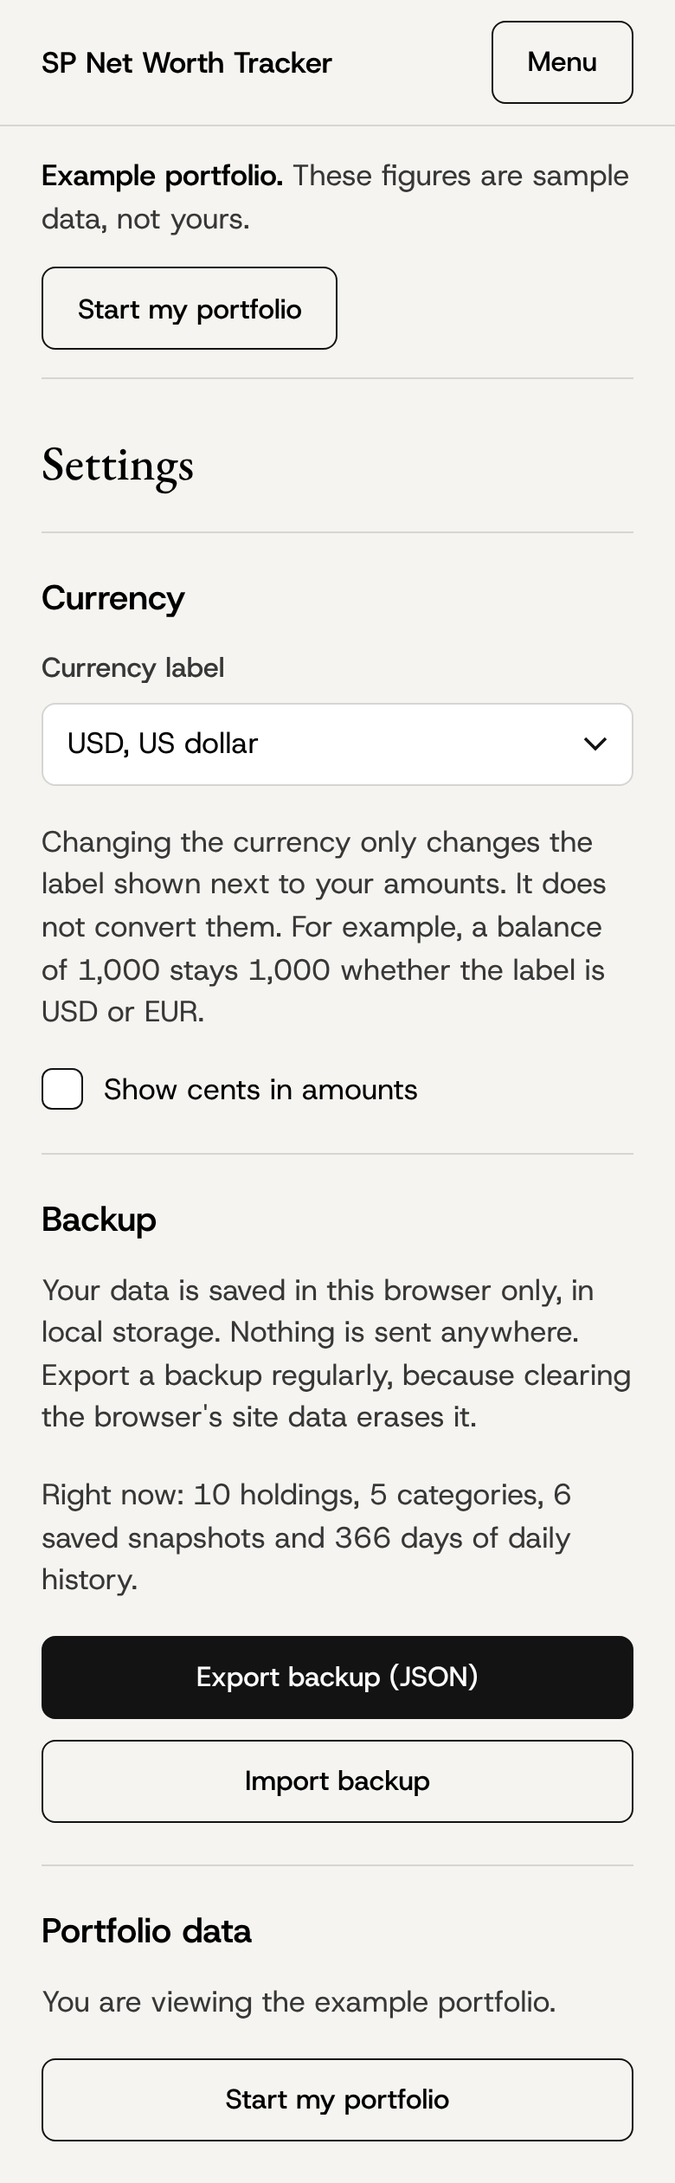
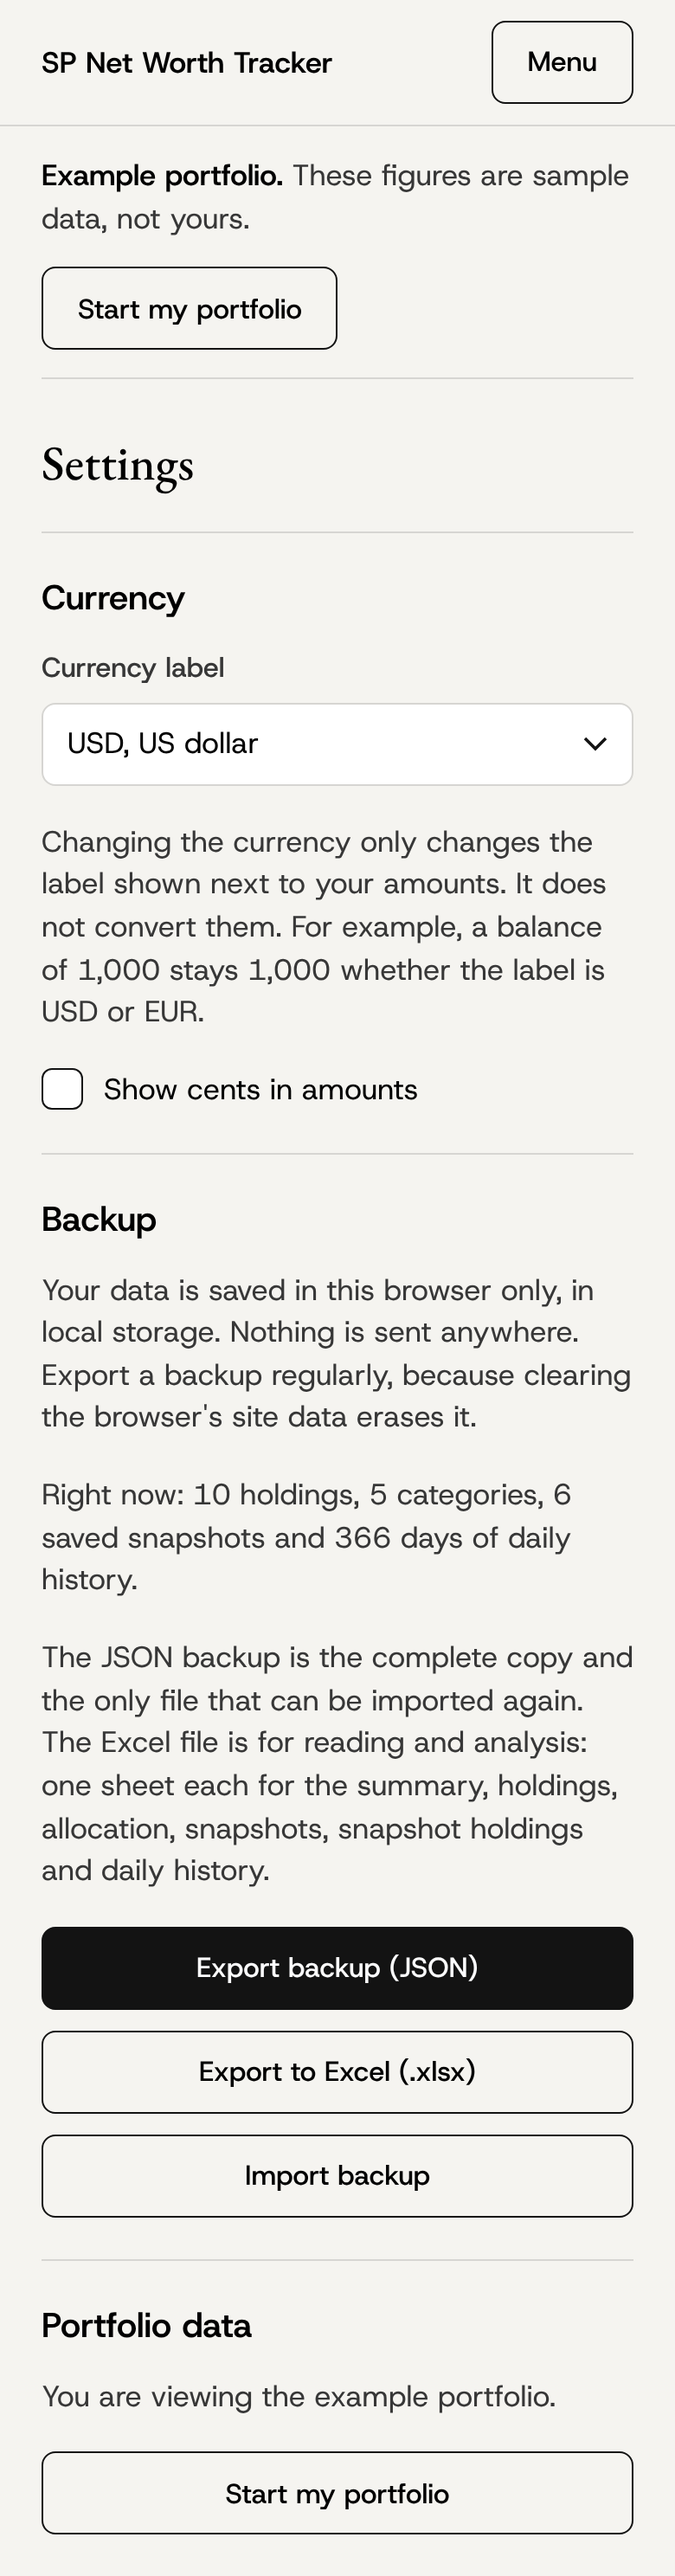
Add Excel export
Settings can now download a readable .xlsx workbook with summary,
holdings, allocation, snapshots, snapshot holdings and daily history.
The JSON backup stays the only importable format.

Claude-Session: https://claude.ai/code/session_01MGnHEpiTRV9QRoaRJHrsMb

diff --git a/src/lib/excel.ts b/src/lib/excel.ts
@@ -1,0 +1,121 @@
+import type { AppData } from '../types';
+import { allocation, share, totals } from './calc';
+import { localDate, parseLocalDate } from './format';
+
+type Cell = { value: string | number | Date; type: typeof String | typeof Number | typeof Date; format?: string; fontWeight?: 'bold'; align?: 'right' } | null;
+
+export interface Sheet {
+  sheet: string;
+  data: Cell[][];
+  columns: { width: number }[];
+  stickyRowsCount: number;
+}
+
+const MONEY = '#,##0.00';
+const PCT = '0.0%';
+const text = (value: string): Cell => ({ value, type: String });
+const money = (value: number | null): Cell => (value === null ? null : { value, type: Number, format: MONEY });
+const pct = (value: number | null): Cell => (value === null ? null : { value: value / 100, type: Number, format: PCT });
+// Excel has no time zones and the writer stores dates as UTC, so shift each date
+// to keep the local clock time the app shows on screen.
+const asShown = (d: Date) => new Date(Date.UTC(d.getFullYear(), d.getMonth(), d.getDate(), d.getHours(), d.getMinutes()));
+const day = (date: string): Cell => {
+  const d = parseLocalDate(date);
+  return { value: new Date(Date.UTC(d.getFullYear(), d.getMonth(), d.getDate())), type: Date, format: 'yyyy-mm-dd' };
+};
+const time = (iso: string): Cell => ({ value: asShown(new Date(iso)), type: Date, format: 'yyyy-mm-dd hh:mm' });
+
+function sheet(name: string, headers: [string, number, ('right' | undefined)?][], rows: Cell[][]): Sheet {
+  return {
+    sheet: name,
+    data: [headers.map(([value, , align]) => ({ value, type: String, fontWeight: 'bold', align })), ...rows],
+    columns: headers.map(([, width]) => ({ width })),
+    stickyRowsCount: 1,
+  };
+}
+
+/**
+ * A readable workbook of everything in the app. For viewing and analysis only:
+ * the JSON backup remains the format that can be imported again.
+ */
+export function buildWorkbook(data: AppData, now: Date = new Date()): Sheet[] {
+  const t = totals(data.holdings);
+  const catName = new Map(data.categories.map((c) => [c.id, c.name]));
+  const kind = (k: 'asset' | 'debt') => (k === 'asset' ? 'Asset' : 'Debt');
+  const sorted = [...data.holdings].sort((a, b) => (a.kind === b.kind ? b.value - a.value : a.kind === 'asset' ? -1 : 1));
+  const R = 'right' as const;
+
+  return [
+    sheet(
+      'Summary',
+      [['Item', 28], ['Value', 20, R]],
+      [
+        [text('Exported'), time(now.toISOString())],
+        [text('Currency'), { value: data.currency, type: String, align: 'right' }],
+        [text('Net worth'), money(t.netWorth)],
+        [text('Total assets'), money(t.totalAssets)],
+        [text('Total debts'), money(t.totalDebts)],
+        [text('Holdings'), { value: data.holdings.length, type: Number }],
+        [text('Saved snapshots'), { value: data.snapshots.length, type: Number }],
+        [text('Days of daily history'), { value: data.daily.length, type: Number }],
+      ],
+    ),
+    sheet(
+      'Holdings',
+      [['Name', 30], ['Institution or account', 26], ['Type', 10], ['Category', 20], ['Value', 18, R], ['% of assets', 14, R]],
+      sorted.map((h) => [
+        text(h.name),
+        text(h.institution),
+        text(kind(h.kind)),
+        text(h.kind === 'debt' ? '' : (h.categoryId && catName.get(h.categoryId)) || 'Uncategorised'),
+        money(h.value),
+        h.kind === 'asset' ? pct(share(h.value, t.totalAssets)) : null,
+      ]),
+    ),
+    sheet(
+      'Allocation',
+      [['Category', 24], ['Value', 18, R], ['Actual %', 12, R], ['Target %', 12, R], ['Difference (points)', 20, R], ['Amount vs target', 20, R]],
+      allocation(data).map((r) => [
+        text(r.name),
+        money(r.value),
+        pct(r.actual),
+        pct(r.target),
+        r.diffPct === null ? null : { value: Math.round(r.diffPct * 100) / 100, type: Number, format: '+0.0;-0.0;0.0' },
+        r.diffAmount === null ? null : { value: r.diffAmount, type: Number, format: '+#,##0.00;-#,##0.00;0.00' },
+      ]),
+    ),
+    sheet(
+      'Snapshots',
+      [['Saved', 20], ['Net worth', 18, R], ['Total assets', 18, R], ['Total debts', 18, R], ['Holdings recorded', 20, R]],
+      data.snapshots.map((s) => [
+        time(s.takenAt),
+        money(s.netWorth),
+        money(s.totalAssets),
+        money(s.totalDebts),
+        s.holdings ? { value: s.holdings.length, type: Number } : { value: 'Totals only', type: String, align: 'right' },
+      ]),
+    ),
+    sheet(
+      'Snapshot holdings',
+      [['Saved', 20], ['Name', 30], ['Institution or account', 26], ['Type', 10], ['Category', 20], ['Value', 18, R], ['% of assets', 14, R]],
+      data.snapshots.flatMap((s) =>
+        (s.holdings ?? []).map((h) => [
+          time(s.takenAt),
+          text(h.name),
+          text(h.institution),
+          text(kind(h.kind)),
+          text(h.kind === 'debt' ? '' : h.category ?? 'Uncategorised'),
+          money(h.value),
+          pct(h.pct),
+        ]),
+      ),
+    ),
+    sheet(
+      'Daily history',
+      [['Date', 14], ['Net worth', 18, R], ['Total assets', 18, R], ['Total debts', 18, R]],
+      data.daily.map((d) => [day(d.date), money(d.netWorth), money(d.totalAssets), money(d.totalDebts)]),
+    ),
+  ];
+}
+
+export const workbookFileName = (now: Date = new Date()) => `sp-net-worth-${localDate(now)}.xlsx`;

diff --git a/src/pages/Settings.tsx b/src/pages/Settings.tsx
@@ -35,6 +35,15 @@ export function SettingsPage() {
     notify({ text: `Backup downloaded: ${describe(data)}.` });
   };
 
+  const downloadExcel = async () => {
+    const [{ default: writeExcelFile }, { buildWorkbook, workbookFileName }] = await Promise.all([
+      import('write-excel-file/browser'),
+      import('../lib/excel'),
+    ]);
+    await writeExcelFile(buildWorkbook(data)).toFile(workbookFileName());
+    notify({ text: 'Excel file downloaded with 6 sheets: Summary, Holdings, Allocation, Snapshots, Snapshot holdings and Daily history.' });
+  };
+
   const read = async (f: File) => {
     setImportError(null);
     const result = parseBackup(await f.text());
@@ -74,8 +83,13 @@ export function SettingsPage() {
             the browser's site data erases it.
           </p>
           <p>Right now: {describe(data)}.</p>
+          <p>
+            The JSON backup is the complete copy and the only file that can be imported again. The Excel file is for reading and analysis: one
+            sheet each for the summary, holdings, allocation, snapshots, snapshot holdings and daily history.
+          </p>
           <div className="button-row">
             <button type="button" className="btn btn-primary" onClick={download}>Export backup (JSON)</button>
+            <button type="button" className="btn btn-secondary" onClick={() => void downloadExcel()}>Export to Excel (.xlsx)</button>
             <button type="button" className="btn btn-secondary" onClick={() => file.current?.click()}>Import backup</button>
             <input
               ref={file}

diff --git a/README.md b/README.md
@@ -61,6 +61,7 @@ Deleting a holding removes it from today's totals. Its earlier daily history and
 
 - Saved in browser local storage under the key `sp-net-worth-tracker`. Clearing site data erases it, so export a backup regularly.
 - **Export** downloads one JSON file with everything.
+- **Export to Excel** downloads a readable `.xlsx` with 6 sheets: Summary, Holdings, Allocation, Snapshots, Snapshot holdings and Daily history. It is for reading and analysis and cannot be imported again.
 - **Import** validates the file first and names the exact problem if it is rejected (for example `holdings[0].value must be a number.`). Nothing is replaced until you confirm.
 - Older files without a version number are accepted. Snapshots that hold totals only are kept as recorded and shown as totals only. No holdings or daily history are invented for them.
 
@@ -86,6 +87,7 @@ src/
   lib/calc.ts         totals, shares, allocation and targets
   lib/store.ts        every state change, daily history, snapshots
   lib/backup.ts       export, validation and import of backups
+  lib/excel.ts        the Excel workbook export
   lib/sample.ts       the example portfolio
   lib/format.ts       money, percentage and date formatting
   components/         select, date picker, dialog, charts, forms, tables
